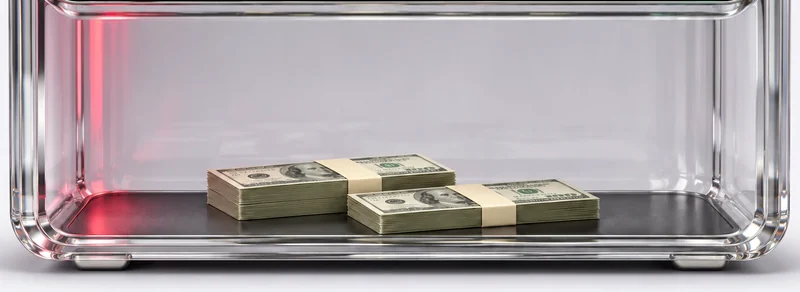
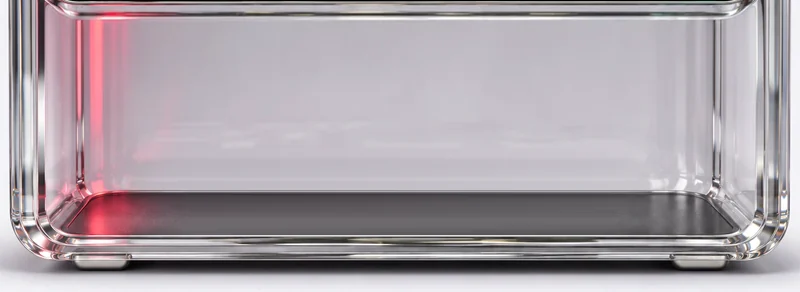
For influencers calculator: stacks of notes (the design's own, cut out) drop onto the case's floor as the clients grow, one per ~90, up to 10
Claude-Session: https://claude.ai/code/session_01JhZ5DB5vxLeXKkYquUUDqb

Changed region(s): [[0.25, 0.524, 0.75, 0.8322]]

diff --git a/site/for-influencers/index.html b/site/for-influencers/index.html
@@ -1008,6 +1008,14 @@ html.tq-mnav-on .tq-lfab { opacity: 0; pointer-events: none; transform: scale(.8
 .inf-calc__case { position: relative; }
 .inf-calc__ph { display: none; }
 .inf-calc__wide, .inf-calc__img { display: block; width: 100%; height: auto; }
+.inf-calc__case { container-type: inline-size; }
+.inf-calc__floor { position: absolute; left: 13.027%; top: 63.254%; width: 74.442%; height: 24.784%; pointer-events: none; }
+.inf-calc__stack { position: absolute; width: 39.167%; height: auto; opacity: 0; transform: translateY(-70%); filter: drop-shadow(0 .35cqw .5cqw rgba(0,0,0,.35));
+  transition: transform .6s cubic-bezier(.3,1.35,.5,1), opacity .25s ease; }
+.inf-calc__stack.is-on { opacity: 1; transform: none; }
+@media (prefers-reduced-motion: reduce) {
+.inf-calc__stack { transition: opacity .2s ease; transform: none; }
+}
 .inf-calc__plate { --u: calc(100cqw / 1279); position: absolute; left: 10.484%; top: 22.414%; width: 79.342%; height: 18.858%; container-type: inline-size; color: #fff; }
 .inf-calc__plate > * { position: absolute; }
 .inf-calc__l { left: calc(34 * var(--u)); top: calc(14 * var(--u)); width: calc(360 * var(--u)); font-size: calc(32 * var(--u)); line-height: 1.02; letter-spacing: .02em; padding: 0;
@@ -1059,6 +1067,7 @@ html.tq-mnav-on .tq-lfab { opacity: 0; pointer-events: none; transform: scale(.8
 .inf-calc__ph { display: block; width: 100%; height: auto; }
 .inf-calc__ph--top { order: 0; margin-bottom: -3px; }
 .inf-calc__ph--body { order: 2; margin-top: -3px; }
+.inf-calc__floor { left: 8.38cqw; top: auto; bottom: 6.355cqw; width: 83.799cqw; height: 16.061cqw; z-index: 2; }
 .inf-calc__plate { --u: .3px; position: relative; order: 1; left: auto; top: auto; width: auto; height: auto; margin: 0 1.2%; container-type: normal; z-index: 1;
     display: grid; grid-template-columns: 1fr auto; grid-template-areas: "l o" "t t" "mm mm" "out out" "tabs tabs"; gap: 10px 12px; align-items: center; padding: 18px 16px 12px; border-radius: 18px;
     background: repeating-linear-gradient(180deg, rgba(255,255,255,.035) 0 1px, rgba(0,0,0,0) 1px 3px), linear-gradient(90deg, #4e4c4d 0%, #3c3b3c 50%, #2e2d2e 100%);
@@ -1570,14 +1579,16 @@ html.tq-mnav-on .tq-lfab { opacity: 0; pointer-events: none; transform: scale(.8
          calc_case.py) whose plate carries the live controls: clients you refer (a four-drum counter that rolls, a slider
          5–1000), the estimate in a red glass window and a Day / Month / Year switch (orbit.js). The estimate is the home
          page's own sum: clients × lots per client a month × $7.50 a lot (a day is a thirtieth of the month, a year twelve
-         months). Phones: the case's top, the plate as a card, the case's glass body. -->
+         months). On its floor, stacks of notes (the design's own, cut out): more of them the more clients, each new one
+         dropping in. Phones: the case's top, the plate as a card, the case's glass body. -->
     <section id="calc" class="inf-calc" data-calc-case data-screen-label="Earnings calculator">
       <div class="inf-calc__in">
         <h2 class="inf-calc__h2 tq-h2" data-fitw>How much could you <span class="inf-calc__red">earn?</span></h2>
         <div class="inf-calc__case">
-          <picture class="inf-calc__wide"><img class="inf-calc__img" src="../assets/influencers/calc-case-1600.webp?v=de0c53a586" srcset="../assets/influencers/calc-case-1100.webp 1100w, ../assets/influencers/calc-case-1600.webp 1600w" sizes="(max-width: 1280px) 100vw, 1136px" width="1600" height="921" alt="A glass briefcase with stacks of notes inside" loading="lazy" decoding="async"></picture>
+          <picture class="inf-calc__wide"><img class="inf-calc__img" src="../assets/influencers/calc-case-1600.webp?v=89863a282f" srcset="../assets/influencers/calc-case-1100.webp 1100w, ../assets/influencers/calc-case-1600.webp 1600w" sizes="(max-width: 1280px) 100vw, 1136px" width="1600" height="921" alt="A glass briefcase with stacks of notes inside" loading="lazy" decoding="async"></picture>
           <img class="inf-calc__ph inf-calc__ph--top" src="../assets/influencers/calc-top-800.webp?v=832df81afe" width="800" height="108" alt="" loading="lazy" decoding="async">
-          <img class="inf-calc__ph inf-calc__ph--body" src="../assets/influencers/calc-body-800.webp?v=773dab4928" width="800" height="292" alt="" loading="lazy" decoding="async">
+          <img class="inf-calc__ph inf-calc__ph--body" src="../assets/influencers/calc-body-800.webp?v=66fc28fe00" width="800" height="292" alt="" loading="lazy" decoding="async">
+          <div class="inf-calc__floor" aria-hidden="true"><img class="inf-calc__stack" data-calc-stack src="../assets/influencers/calc-stack.webp?v=39a460bf33" width="470" height="105" alt="" loading="lazy" decoding="async" style="left: 41.417%; top: 50.870%; z-index: 20;"><img class="inf-calc__stack" data-calc-stack src="../assets/influencers/calc-stack.webp?v=39a460bf33" width="470" height="105" alt="" loading="lazy" decoding="async" style="left: 20.417%; top: 30.870%; z-index: 10;"><img class="inf-calc__stack" data-calc-stack src="../assets/influencers/calc-stack.webp?v=39a460bf33" width="470" height="105" alt="" loading="lazy" decoding="async" style="left: 42.083%; top: 34.348%; z-index: 21;"><img class="inf-calc__stack" data-calc-stack src="../assets/influencers/calc-stack.webp?v=39a460bf33" width="470" height="105" alt="" loading="lazy" decoding="async" style="left: 59.167%; top: 38.261%; z-index: 10;"><img class="inf-calc__stack" data-calc-stack src="../assets/influencers/calc-stack.webp?v=39a460bf33" width="470" height="105" alt="" loading="lazy" decoding="async" style="left: 2.250%; top: 53.913%; z-index: 20;"><img class="inf-calc__stack" data-calc-stack src="../assets/influencers/calc-stack.webp?v=39a460bf33" width="470" height="105" alt="" loading="lazy" decoding="async" style="left: 21.083%; top: 14.348%; z-index: 11;"><img class="inf-calc__stack" data-calc-stack src="../assets/influencers/calc-stack.webp?v=39a460bf33" width="470" height="105" alt="" loading="lazy" decoding="async" style="left: 59.833%; top: 21.739%; z-index: 11;"><img class="inf-calc__stack" data-calc-stack src="../assets/influencers/calc-stack.webp?v=39a460bf33" width="470" height="105" alt="" loading="lazy" decoding="async" style="left: 2.917%; top: 37.391%; z-index: 21;"><img class="inf-calc__stack" data-calc-stack src="../assets/influencers/calc-stack.webp?v=39a460bf33" width="470" height="105" alt="" loading="lazy" decoding="async" style="left: 42.750%; top: 17.826%; z-index: 22;"><img class="inf-calc__stack" data-calc-stack src="../assets/influencers/calc-stack.webp?v=39a460bf33" width="470" height="105" alt="" loading="lazy" decoding="async" style="left: 21.750%; top: -2.174%; z-index: 12;"></div>
           <div class="inf-calc__plate">
             <div class="inf-calc__l tq-h2">Clients you refer</div>
             <div class="inf-calc__odo" aria-hidden="true"><span class="inf-calc__drum"><span class="inf-calc__reel" data-calc-reel><i>0</i><i>1</i><i>2</i><i>3</i><i>4</i><i>5</i><i>6</i><i>7</i><i>8</i><i>9</i></span></span><span class="inf-calc__drum"><span class="inf-calc__reel" data-calc-reel><i>0</i><i>1</i><i>2</i><i>3</i><i>4</i><i>5</i><i>6</i><i>7</i><i>8</i><i>9</i></span></span><span class="inf-calc__drum"><span class="inf-calc__reel" data-calc-reel><i>0</i><i>1</i><i>2</i><i>3</i><i>4</i><i>5</i><i>6</i><i>7</i><i>8</i><i>9</i></span></span><span class="inf-calc__drum"><span class="inf-calc__reel" data-calc-reel><i>0</i><i>1</i><i>2</i><i>3</i><i>4</i><i>5</i><i>6</i><i>7</i><i>8</i><i>9</i></span></span></div>
@@ -1662,6 +1673,6 @@ html.tq-mnav-on .tq-lfab { opacity: 0; pointer-events: none; transform: scale(.8
 
 <script src="../assets/js/transition.js?v=f60783e549" defer></script>
 <script src="../assets/js/landing.js?v=2d278b596f" defer></script>
-<script src="../assets/js/orbit.js?v=354751b6f2" defer></script>
+<script src="../assets/js/orbit.js?v=8e8ad280bb" defer></script>
 </body>
 </html>

diff --git a/tools/i18n/influencers.html b/tools/i18n/influencers.html
@@ -260,7 +260,8 @@
          calc_case.py) whose plate carries the live controls: clients you refer (a four-drum counter that rolls, a slider
          5–1000), the estimate in a red glass window and a Day / Month / Year switch (orbit.js). The estimate is the home
          page's own sum: clients × lots per client a month × $7.50 a lot (a day is a thirtieth of the month, a year twelve
-         months). Phones: the case's top, the plate as a card, the case's glass body. -->
+         months). On its floor, stacks of notes (the design's own, cut out): more of them the more clients, each new one
+         dropping in. Phones: the case's top, the plate as a card, the case's glass body. -->
     <section id="calc" class="inf-calc" data-calc-case data-screen-label="Earnings calculator">
       <div class="inf-calc__in">
         <h2 class="inf-calc__h2 tq-h2" data-fitw>{{inf.calc.h2a}} <span class="inf-calc__red">{{inf.calc.h2b}}</span></h2>
@@ -268,6 +269,7 @@
           <picture class="inf-calc__wide"><img class="inf-calc__img" src="{{root}}assets/influencers/calc-case-1600.webp" srcset="{{root}}assets/influencers/calc-case-1100.webp 1100w, {{root}}assets/influencers/calc-case-1600.webp 1600w" sizes="(max-width: 1280px) 100vw, 1136px" width="1600" height="921" alt="{{@inf.calc.alt}}" loading="lazy" decoding="async"></picture>
           <img class="inf-calc__ph inf-calc__ph--top" src="{{root}}assets/influencers/calc-top-800.webp" width="800" height="108" alt="" loading="lazy" decoding="async">
           <img class="inf-calc__ph inf-calc__ph--body" src="{{root}}assets/influencers/calc-body-800.webp" width="800" height="292" alt="" loading="lazy" decoding="async">
+          <div class="inf-calc__floor" aria-hidden="true"><img class="inf-calc__stack" data-calc-stack src="{{root}}assets/influencers/calc-stack.webp" width="470" height="105" alt="" loading="lazy" decoding="async" style="left: 41.417%; top: 50.870%; z-index: 20;"><img class="inf-calc__stack" data-calc-stack src="{{root}}assets/influencers/calc-stack.webp" width="470" height="105" alt="" loading="lazy" decoding="async" style="left: 20.417%; top: 30.870%; z-index: 10;"><img class="inf-calc__stack" data-calc-stack src="{{root}}assets/influencers/calc-stack.webp" width="470" height="105" alt="" loading="lazy" decoding="async" style="left: 42.083%; top: 34.348%; z-index: 21;"><img class="inf-calc__stack" data-calc-stack src="{{root}}assets/influencers/calc-stack.webp" width="470" height="105" alt="" loading="lazy" decoding="async" style="left: 59.167%; top: 38.261%; z-index: 10;"><img class="inf-calc__stack" data-calc-stack src="{{root}}assets/influencers/calc-stack.webp" width="470" height="105" alt="" loading="lazy" decoding="async" style="left: 2.250%; top: 53.913%; z-index: 20;"><img class="inf-calc__stack" data-calc-stack src="{{root}}assets/influencers/calc-stack.webp" width="470" height="105" alt="" loading="lazy" decoding="async" style="left: 21.083%; top: 14.348%; z-index: 11;"><img class="inf-calc__stack" data-calc-stack src="{{root}}assets/influencers/calc-stack.webp" width="470" height="105" alt="" loading="lazy" decoding="async" style="left: 59.833%; top: 21.739%; z-index: 11;"><img class="inf-calc__stack" data-calc-stack src="{{root}}assets/influencers/calc-stack.webp" width="470" height="105" alt="" loading="lazy" decoding="async" style="left: 2.917%; top: 37.391%; z-index: 21;"><img class="inf-calc__stack" data-calc-stack src="{{root}}assets/influencers/calc-stack.webp" width="470" height="105" alt="" loading="lazy" decoding="async" style="left: 42.750%; top: 17.826%; z-index: 22;"><img class="inf-calc__stack" data-calc-stack src="{{root}}assets/influencers/calc-stack.webp" width="470" height="105" alt="" loading="lazy" decoding="async" style="left: 21.750%; top: -2.174%; z-index: 12;"></div>
           <div class="inf-calc__plate">
             <div class="inf-calc__l tq-h2">{{inf.calc.clients}}</div>
             <div class="inf-calc__odo" aria-hidden="true"><span class="inf-calc__drum"><span class="inf-calc__reel" data-calc-reel><i>0</i><i>1</i><i>2</i><i>3</i><i>4</i><i>5</i><i>6</i><i>7</i><i>8</i><i>9</i></span></span><span class="inf-calc__drum"><span class="inf-calc__reel" data-calc-reel><i>0</i><i>1</i><i>2</i><i>3</i><i>4</i><i>5</i><i>6</i><i>7</i><i>8</i><i>9</i></span></span><span class="inf-calc__drum"><span class="inf-calc__reel" data-calc-reel><i>0</i><i>1</i><i>2</i><i>3</i><i>4</i><i>5</i><i>6</i><i>7</i><i>8</i><i>9</i></span></span><span class="inf-calc__drum"><span class="inf-calc__reel" data-calc-reel><i>0</i><i>1</i><i>2</i><i>3</i><i>4</i><i>5</i><i>6</i><i>7</i><i>8</i><i>9</i></span></span></div>

diff --git a/site/assets/css/influencers.css b/site/assets/css/influencers.css
@@ -173,6 +173,14 @@
 .inf-calc__case { position: relative; }
 .inf-calc__ph { display: none; }
 .inf-calc__wide, .inf-calc__img { display: block; width: 100%; height: auto; }
+/* the floor of the case (design x 240..1440, y 600..830) and the stacks on it: one per ~90 clients (orbit.js), each in
+   its place (left/top in % of the floor, the back ones behind), a new one dropping in, one taken away lifting out */
+.inf-calc__case { container-type: inline-size; }
+.inf-calc__floor { position: absolute; left: 13.027%; top: 63.254%; width: 74.442%; height: 24.784%; pointer-events: none; }
+.inf-calc__stack { position: absolute; width: 39.167%; height: auto; opacity: 0; transform: translateY(-70%); filter: drop-shadow(0 .35cqw .5cqw rgba(0,0,0,.35));
+  transition: transform .6s cubic-bezier(.3,1.35,.5,1), opacity .25s ease; }
+.inf-calc__stack.is-on { opacity: 1; transform: none; }
+@media (prefers-reduced-motion: reduce) { .inf-calc__stack { transition: opacity .2s ease; transform: none; } }
 .inf-calc__plate { --u: calc(100cqw / 1279); position: absolute; left: 10.484%; top: 22.414%; width: 79.342%; height: 18.858%; container-type: inline-size; color: #fff; }
 .inf-calc__plate > * { position: absolute; }
 .inf-calc__l { left: calc(34 * var(--u)); top: calc(14 * var(--u)); width: calc(360 * var(--u)); font-size: calc(32 * var(--u)); line-height: 1.02; letter-spacing: .02em; padding: 0;
@@ -226,6 +234,7 @@
   .inf-calc__ph { display: block; width: 100%; height: auto; }
   .inf-calc__ph--top { order: 0; margin-bottom: -3px; }
   .inf-calc__ph--body { order: 2; margin-top: -3px; }
+  .inf-calc__floor { left: 8.38cqw; top: auto; bottom: 6.355cqw; width: 83.799cqw; height: 16.061cqw; z-index: 2; }   /* the same floor in the body picture (its crop: x 120..1552, the floor 202..432 of its 523 rows) */
   .inf-calc__plate { --u: .3px; position: relative; order: 1; left: auto; top: auto; width: auto; height: auto; margin: 0 1.2%; container-type: normal; z-index: 1;
     display: grid; grid-template-columns: 1fr auto; grid-template-areas: "l o" "t t" "mm mm" "out out" "tabs tabs"; gap: 10px 12px; align-items: center; padding: 18px 16px 12px; border-radius: 18px;
     background: repeating-linear-gradient(180deg, rgba(255,255,255,.035) 0 1px, rgba(0,0,0,0) 1px 3px), linear-gradient(90deg, #4e4c4d 0%, #3c3b3c 50%, #2e2d2e 100%);

diff --git a/site/assets/js/orbit.js b/site/assets/js/orbit.js
@@ -342,6 +342,15 @@
   const range = box.querySelector('[data-calc-range]'), sum = box.querySelector('[data-calc-sum]'), per = box.querySelector('[data-calc-per]');
   const reels = [...box.querySelectorAll('[data-calc-reel]')], tabs = [...box.querySelectorAll('[data-calc-p]')];
   const track = range.parentNode;
+  const stacks = [...box.querySelectorAll('[data-calc-stack]')];
+  let lit = 0;
+  /* the notes on the case's floor: one stack per ~90 clients (2 at the design's 181), up to 10; new ones drop in one
+     after another, ones taken away go together */
+  const showStacks = (c) => {
+    const n = Math.min(stacks.length, Math.max(1, Math.ceil(c / 90.5)));
+    stacks.forEach((el, i) => { const on = i < n; if (on && !el.classList.contains('is-on')) { el.style.transitionDelay = Math.max(0, i - lit) * 90 + 'ms'; el.classList.add('is-on'); } else if (!on) { el.style.transitionDelay = '0ms'; el.classList.remove('is-on'); } });
+    lit = n;
+  };
   let p = 'year', shown = null, raf = 0;
   const money = (v) => '$' + Math.round(v).toLocaleString('en-US');
   const fit = (txt) => { const n = txt.length; sum.parentNode.style.setProperty('--sf', n <= 7 ? 64 : n <= 9 ? 56 : n <= 11 ? 46 : 38); };
@@ -356,6 +365,7 @@
     reels.forEach((r, i) => { r.style.transform = 'translateY(' + (-Number(d[i]) * 10) + '%)'; });
     track.style.setProperty('--p', ((c - Number(range.min)) / (Number(range.max) - Number(range.min)) * 100).toFixed(2) + '%');
     tween(c * LOTS * RATE * PER[p]);
+    showStacks(c);
   };
   range.addEventListener('input', render);
   tabs.forEach((t) => t.addEventListener('click', () => {

diff --git a/tools/influencers/calc_case.py b/tools/influencers/calc_case.py
@@ -5,6 +5,7 @@ everything on the plate live (influencers.css .inf-calc, orbit.js); this makes t
   calc-case-{1600,1100}.webp   the briefcase (the heading cut off, its glass body 15% taller), its plate wiped clean (every row of the plate
                                carried across from a clean strip of it, x 912..948, shaded left to right as the plate
                                is), so the live controls lie on it
+  calc-stack.webp              one stack of notes (the design's front one), cut out
   calc-top-800.webp, calc-body-800.webp   phones: the case's top and its glass body (the plate a card between them)
 Run:  python3 tools/influencers/calc_case.py"""
 import os
@@ -33,6 +34,27 @@ m = Image.new('L', (a.shape[1], a.shape[0]), 0)
 ImageDraw.Draw(m).rounded_rectangle((X0, Y0, X1 - 1, Y1 - 1), radius=R, fill=255)
 m = np.asarray(m.filter(ImageFilter.GaussianBlur(1))).astype(float)[Y0:Y1, X0:X1, None] / 255
 a[Y0:Y1, X0:X1] = a[Y0:Y1, X0:X1] * (1 - m) + face * m
+# the two stacks of notes: one cut out as a picture of its own (the page lays stacks on the case's floor, more of them
+# the more the estimate grows: orbit.js), and both wiped from the case: each row of their place carried across from the
+# glass and floor either side of it (x 462 / 1222), then the front stack is whatever differs from that, below its top
+# edge (the back stack's corner lies above it)
+SX0, SX1, SY0, SY1 = 466, 1218, 664, 822
+lft, rgt = a[SY0:SY1, 458:466].mean(1), a[SY0:SY1, 1218:1226].mean(1)
+t = np.linspace(0, 1, SX1 - SX0)[None, :, None]
+clear = lft[:, None, :] * (1 - t) + rgt[:, None, :] * t
+orig = a[SY0:SY1, SX0:SX1].copy()
+a[SY0:SY1, SX0:SX1] = clear
+yy0, xx0 = np.mgrid[SY0:SY1, SX0:SX1]
+edge = 743 + (xx0 - 742) * (718 - 743) / (1165 - 742) - 3          # the front stack's top edge, a little above
+diff = np.abs(orig - clear).max(2)
+am = np.clip((diff - 14) / 26, 0, 1) * (xx0 >= 738) * (yy0 >= edge)
+am = np.asarray(Image.fromarray((am * 255).astype(np.uint8)).filter(ImageFilter.GaussianBlur(.6))).astype(float) / 255
+ys, xs = np.where(am > .05)
+by0, by1, bx0, bx1 = ys.min(), ys.max() + 1, xs.min(), xs.max() + 1
+stack = np.dstack([orig, am * 255])[by0:by1, bx0:bx1]
+Image.fromarray(np.clip(stack + .5, 0, 255).astype(np.uint8), 'RGBA').save(os.path.join(OUT, 'calc-stack.webp'), quality=88, alpha_quality=100, method=6)
+print('calc-stack.webp', stack.shape[1], 'x', stack.shape[0], 'at design', SX0 + bx0, SY0 + by0)
+
 # the design's background (lavender, a shade darker at the edges) brought to the page's flat #f3f2f7: measured round the
 # case (a smooth surface fitted to the margin), every pixel scaled by it (above it eased to white), so no edge shows
 TO = np.array([243, 242, 247.])

diff --git a/README.md b/README.md
@@ -291,7 +291,7 @@ HTTPS (Let's Encrypt) Netlify включит сам.
 
 **Блок «Three numbers»** (с 25 ноября 2026 — светлый стеклянный вариант по макету владельца, `tools/influencers/numbers-src/glass-design.webp`; прежний титановый с цифрами-туманностями заменён, он есть в истории git) — `#numbers`, после «Next star». Светлая карточка (#f9f8fd, мягкая тень), «THREE NUMBERS. / ZERO FINE PRINT.» и три стеклянные строки-пилюли: 87% — Revenue share, ∞ — Sub-partners, 365 — Paydays a year. **Стекло — из самого макета:** `python3 tools/influencers/nums_glass.py` вырезает левый край второй строки макета, зеркалит его вправо и продолжает середину его последним столбцом (без швов) → `nums-row.webp`, которая кладётся как 9-slice `border-image`, а её ободок масштабируется с высотой строки (`--rh`). Цифры — живой текст шрифтом заголовков, залитый красным шлифованным металлом (`nums-red.webp`, рисует тот же скрипт), с тёмно-красным торцом и бликом; ∞ — лемниската из SVG-маски (`nums-loop-*.svg`). **Раскрытие:** изначально все строки одинаковые, видно только номер и название; при наведении мыши (или фокусе с клавиатуры) строка плавно растёт (`--rh` — зарегистрированная длина, анимируется), цифра вместе с ней, и выплывает пояснение (of everything your audience brings in / build a team with no ceiling / paid out every single day). На телефонах наведения нет — строка раскрывается по нажатию, закрывается повторным нажатием на неё или нажатием в любом другом месте страницы (открыта одна; `orbit.js`), цифра там не растёт (узкая колонка), растёт только строка под пояснение. `aria-expanded` следует за состоянием. **Без своей карточки** (по просьбе владельца): строки стоят прямо на фоне страницы, рамка `nums-row.webp` — только стекло: вне капсулы полностью прозрачная, внутри каждый пиксель переведён в белый/чёрный с прозрачностью относительно фона страницы (лицо капсулы — прозрачное стекло, ободок и блики остаются), никаких светлых прямоугольников вокруг. **Подсветка выбранной строки:** насыщенное красное свечение на её левом и правом краю (`.inf-nums__row::after`), плавно появляется на строке под мышью / открытой нажатием и гаснет на прежней. Тексты — `inf.nums.*`, стили — `.inf-nums*` в `influencers.css`.
 
-**Калькулятор «How much could you earn?»** (макет владельца, ноябрь 2026, `tools/influencers/numbers-src/case-design.webp`) — сразу после стеклянных строк «Three numbers», `#calc`. Стеклянный чемодан из макета шириной как соседние блоки, его стеклянный корпус на 15% выше, чем в макете (по просьбе владельца: полоса чистого стекла между табличкой и деньгами растянута на 15% высоты чемодана); на металлической табличке его крышки — живые элементы: «Clients you refer», счётчик из четырёх барабанов (цифры прокручиваются), ползунок 5–1000 (по умолчанию 181, как в макете), сумма в красном стеклянном окне (считается с плавным перебором) и переключатель Day / Month / Year (бирюзовый, как в макете). Картинка — `python3 tools/influencers/calc_case.py`: заголовок макета срезан (он живой текст), табличка вычищена (каждая строка таблички протянута из её чистой полосы с тем же затенением слева направо), фон выровнен под страницу → `calc-case-{1600,1100}.webp`, для телефона — верх чемодана (ручка, замки, край крышки) `calc-top-800.webp` и стеклянный корпус `calc-body-800.webp`. Размеры элементов на табличке — в px макета таблички (1279 × 175) через container units, поэтому всё масштабируется вместе с чемоданом. На телефоне чемодан собран из трёх частей: верх с ручкой, табличка крупной карточкой (подпись и счётчик, ползунок, сумма, переключатель) и стеклянный корпус с деньгами. **Расчёт — как на главной:** клиенты × лоты на клиента в месяц × $7,50 за лот; день — 1/30 месяца, год — 12 месяцев. **Лотов на клиента — 130 в месяц: это стартовое значение калькулятора главной, а не подтверждённая средняя для клиентов блогеров** — поменять: `LOTS` в `orbit.js` (блок калькулятора). Тексты — `inf.calc.*`, стили — `.inf-calc*`.
+**Калькулятор «How much could you earn?»** (макет владельца, ноябрь 2026, `tools/influencers/numbers-src/case-design.webp`) — сразу после стеклянных строк «Three numbers», `#calc`. Стеклянный чемодан из макета шириной как соседние блоки, его стеклянный корпус на 15% выше, чем в макете (по просьбе владельца: полоса чистого стекла между табличкой и деньгами растянута на 15% высоты чемодана); на металлической табличке его крышки — живые элементы: «Clients you refer», счётчик из четырёх барабанов (цифры прокручиваются), ползунок 5–1000 (по умолчанию 181, как в макете), сумма в красном стеклянном окне (считается с плавным перебором) и переключатель Day / Month / Year (бирюзовый, как в макете). Картинка — `python3 tools/influencers/calc_case.py`: заголовок макета срезан (он живой текст), табличка вычищена (каждая строка таблички протянута из её чистой полосы с тем же затенением слева направо), фон выровнен под страницу → `calc-case-{1600,1100}.webp`, для телефона — верх чемодана (ручка, замки, край крышки) `calc-top-800.webp` и стеклянный корпус `calc-body-800.webp`. Размеры элементов на табличке — в px макета таблички (1279 × 175) через container units, поэтому всё масштабируется вместе с чемоданом. На телефоне чемодан собран из трёх частей: верх с ручкой, табличка крупной карточкой (подпись и счётчик, ползунок, сумма, переключатель) и стеклянный корпус с деньгами. **Пачки денег на дне чемодана живые:** из макета вырезана одна пачка (`calc-stack.webp`, обе пачки стёрты с картинки чемодана, дно восстановлено), и на дне 10 мест под пачки (задний ряд, передний ряд и пачки друг на друге); видно по одной пачке на каждые ~90 клиентов (2 — при 181, как в макете; 10 — при 1000). Двигаешь ползунок вверх — новые пачки по очереди падают на дно с лёгким отскоком; вниз — лишние исчезают. На телефоне пачки на дне стеклянного корпуса так же. **Расчёт — как на главной:** клиенты × лоты на клиента в месяц × $7,50 за лот; день — 1/30 месяца, год — 12 месяцев. **Лотов на клиента — 130 в месяц: это стартовое значение калькулятора главной, а не подтверждённая средняя для клиентов блогеров** — поменять: `LOTS` в `orbit.js` (блок калькулятора). Тексты — `inf.calc.*`, стили — `.inf-calc*`.
 
 **Блок «Incentive trips»** — четвёртый на странице, после «Three numbers», `#trips`. **С ноября 2026 — по второму дизайну владельца** (`tools/influencers/trips-design.webp`, 1763 × 892): без тёмной карточки, на светлом фоне страницы. Слева живой текст — «Incentive trips» (красным), «THE TRIP IS» / «ON US.» (Syncopate, `tq-h2`), абзац и три строки (Flights and stay — Covered, Yacht day and dinners — Covered, How you qualify — Results, красным); справа — картинка из дизайна: три сторис поездки в Дубай в стеклянных телефонах (приезд в отель, яхта, ужин на закате). Картинку делает `python3 tools/influencers/trips.py` → `site/assets/influencers/trips-{520,780,1040}.webp` (36–99 КБ): вырезает телефоны с полем, фон дизайна (сиреневатый, к краям темнее) выравнивает под ровный фон страницы #f3f2f7 (фон измеряется вокруг телефонов), края картинки на странице плавно растворяются (маска в CSS). «ON US.» — бирюзовый, как в дизайне, и **с анимацией воды из первого варианта** (по просьбе владельца): фото воды (`nums-water-*.webp`) медленно плывёт внутри букв (22 с туда и обратно), поверх — бирюзовый цвет дизайна (`background-blend-mode: color`: вода сохраняет свет и тени). Анимация идёт только пока блок на экране (`orbit.js` ставит `.is-on`), при «уменьшить движение» — стоит; на телефоне ≈20% главного потока в эмуляции iPhone с CPU ×4 (≈5% на реальном). Колонка та же, что у карточек выше; до 900px — текст, под ним картинка во всю ширину. Тексты — `inf.trip.*` в `strings/influencers/en.json`, стили — `.inf-trip*` в `influencers.css`. Первый вариант блока (тёмная карточка со сторис-заглушками, дизайн «Incentive Trips» 7d) заменён; он есть в истории git.
 
